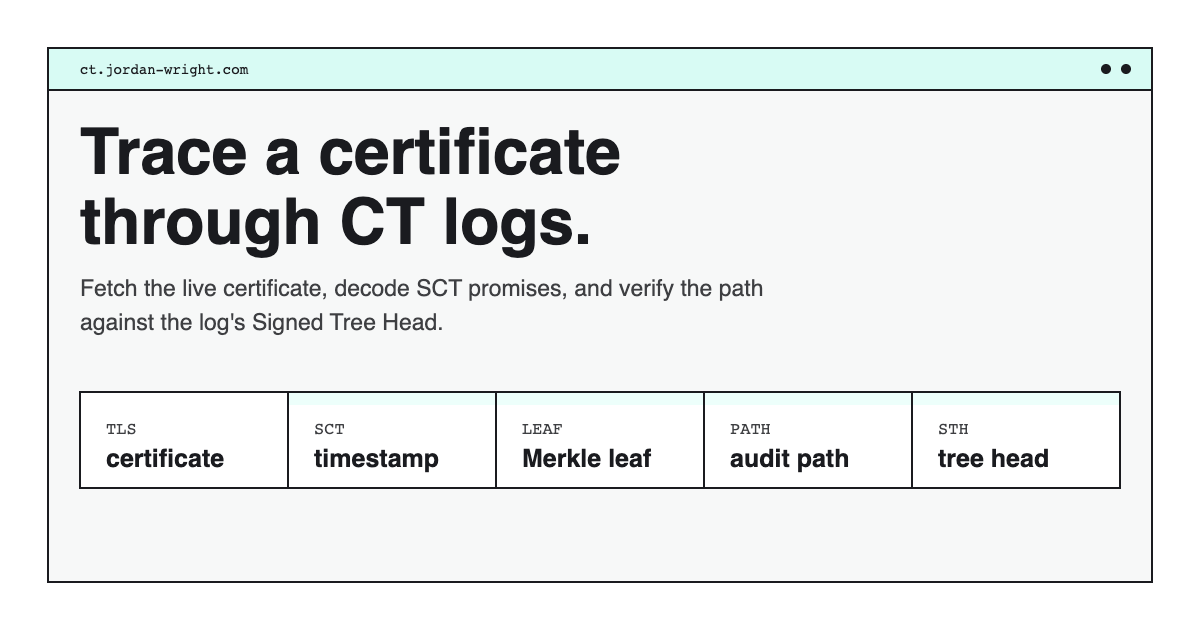
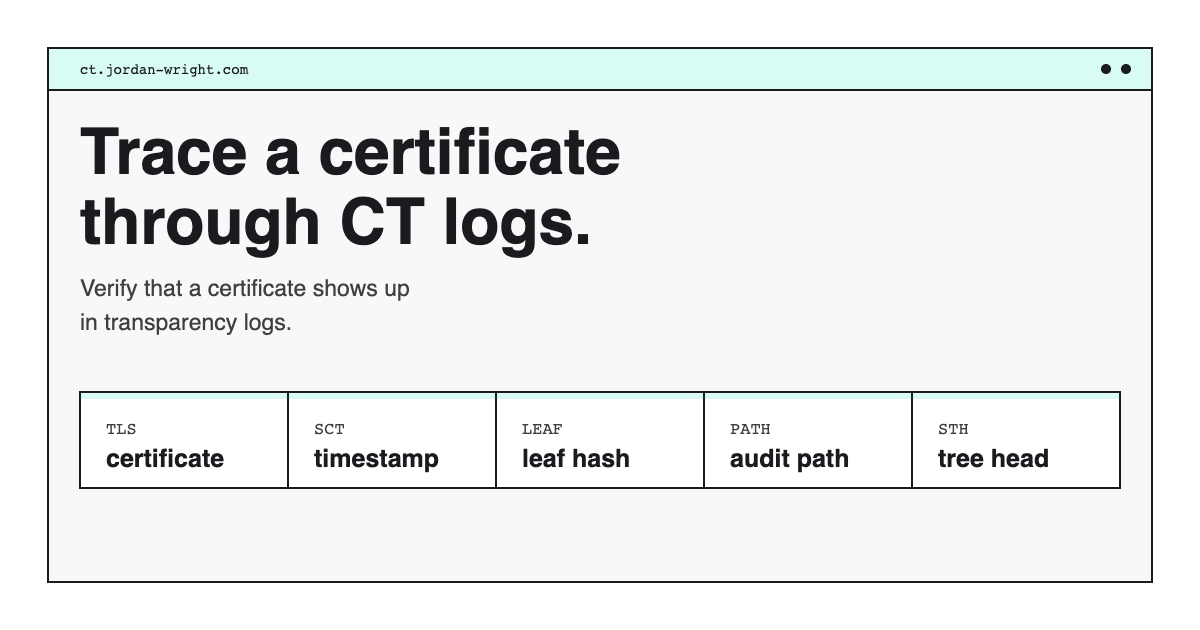
docs(web): tighten OG image tagline
What changed:
- Replaced the Open Graph image tagline with a shorter TLS-to-CT-inclusion line.
- Regenerated the PNG preview from the updated SVG source.

Why:
- The social preview should communicate the outcome quickly instead of listing implementation steps.

Validation:
- git diff --check
- file web/og-image.png

Changed region(s): [[0.0617, 0.4222, 0.6475, 0.5429], [0.4317, 0.6937, 0.555, 0.754], [0.0617, 0.6032, 0.2467, 0.6333]]

diff --git a/web/styles.css b/web/styles.css
@@ -251,7 +251,7 @@ h3 {
   inset: 0 0 auto;
   height: 6px;
   border-bottom: 1px solid var(--line);
-  background: var(--paper);
+  background: var(--mint);
 }
 
 .proof-node:last-child {
@@ -263,13 +263,6 @@ h3 {
 .path-node-hero,
 .root-node {
   background: var(--paper);
-}
-
-.sct-node::before,
-.leaf-node::before,
-.path-node-hero::before,
-.root-node::before {
-  background: var(--mint);
 }
 
 .node-kicker,

diff --git a/web/index.html b/web/index.html
@@ -60,7 +60,7 @@
             </div>
             <div class="proof-node leaf-node">
               <span class="node-kicker">Leaf</span>
-              <strong>Merkle leaf</strong>
+              <strong>leaf hash</strong>
               <small>rebuilt from cert data</small>
             </div>
             <div class="proof-node path-node-hero">